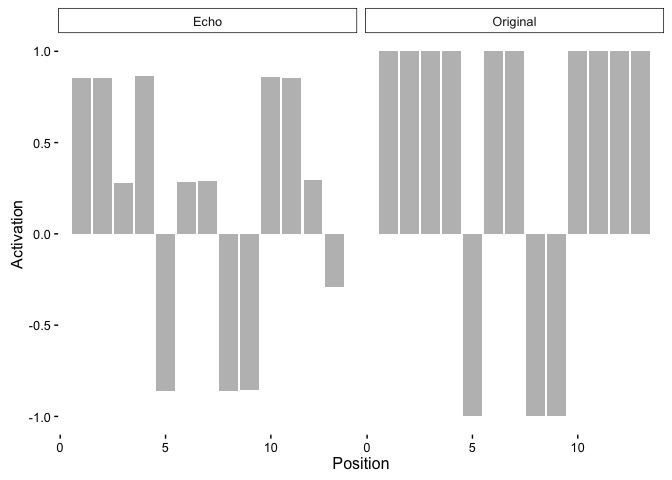
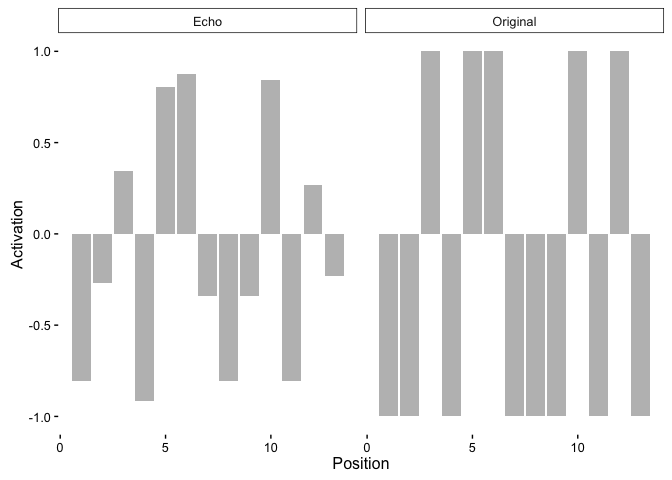
newest updates

diff --git a/Hintzman1986_R_Crump/HintzmanJournal2.html b/Hintzman1986_R_Crump/HintzmanJournal2.html
@@ -122,13 +122,22 @@ $(document).ready(function () {
 
 </div>
 
+<div id="TOC">
+<ul>
+<li><a href="#simulation-1">1986 Simulation 1</a><ul>
+<li><a href="#construct-three-category-names-and-prototype-patterns">Construct three category names and prototype patterns</a></li>
+<li><a href="#create-distortions-of-the-prototype-pattern">Create Distortions of the prototype pattern</a></li>
+<li><a href="#function-to-get-an-echo-from-a-memory">Function to get an echo from a memory</a></li>
+<li><a href="#probe-with-category-name">Probe with Category Name</a></li>
+</ul></li>
+<li><a href="#running-multiple-simulated-subjects">Running multiple simulated Subjects</a></li>
+</ul>
+</div>
 
 <div id="simulation-1" class="section level1">
 <h1>1986 Simulation 1</h1>
 <p>Load libraries</p>
-<pre class="r"><code>library(lsa) #has cosine function</code></pre>
 <pre><code>## Loading required package: SnowballC</code></pre>
-<pre class="r"><code>library(ggplot2) # for plotting</code></pre>
 <p>Each memory trace and each probe was a 23 unit vector.</p>
 <p>Units 1-10 represented the category name, and 11-23 represented the stimulus pattern. Each unit had a .5 probability of being assigned a +1 (activated unit) or a -1 (inhibited unit).</p>
 <p>Three category names and prototypes were used in the simulations.</p>
@@ -181,7 +190,7 @@ getEcho &lt;- function(probe, mem) {
 <pre class="r"><code>CurrentProbe &lt;- c(CategoriesPrototypes[1,1:10],rep(0,13)) #try the first category name, followed by zeros
 Echo &lt;- getEcho(CurrentProbe,DistortedExemplars) # create the echo
 cor(Echo[11:23],CategoriesPrototypes[1,11:23]) # correlate echo pattern with prototype pattern</code></pre>
-<pre><code>## [1] 0.8664403</code></pre>
+<pre><code>## [1] 0.9066649</code></pre>
 <pre class="r"><code># plot the Echo and the Original
 
 Activations &lt;- c(CategoriesPrototypes[1,11:23],Echo[11:23])
@@ -193,8 +202,80 @@ ggplot(data=dframe, aes(y=Activations,x=Neuron))+
   geom_bar(stat=&quot;identity&quot;,position=position_dodge(),fill=&quot;gray&quot;)+
   theme_classic(base_size=12) +
   ylab(&quot;Activation&quot;) + xlab(&quot;Position&quot;)+facet_wrap(~Cue)</code></pre>
[2 lines of base64/hex data omitted]
 </div>
+</div>
+<div id="running-multiple-simulated-subjects" class="section level1">
+<h1>Running multiple simulated Subjects</h1>
+<p>Each simulated subject is shown 3 exemplars from each of three categories. Each of the category names is probed, and the retrieved echo pattern is compared to the prototype pattern.</p>
+<pre class="r"><code>#loop for each subject
+SimulatedDataFrame&lt;-data.frame()
+for(subs in 1:20){
+  
+  #create three categories and prototypes
+  #######################
+  CategoriesPrototypes &lt;- matrix(sign(runif(3*23,-1,1)),nrow=3,ncol=23)
+  
+  #Create Distortions
+  ###################
+  DistortedExemplars &lt;- matrix(nrow = 9, ncol = 23) 
+  rowCounter &lt;- 0  # initialize row counter to insert distortions into matrix
+  # repeat for each category (rows)
+  for (m in 1:3) {
+    # create x number of distortions per category
+    for (numberOfDistortions in 1:3) {
+      rowCounter &lt;- rowCounter + 1  # increment on each loop, simple index
+      ones &lt;- rep(1, 23)  # creates a vector of 23 ones
+      ones[sample(seq(11, 23), 2)] &lt;- c(-1)  # randomly sample two units from the prototype pattern and change value to -1
+      DistortedExemplars[rowCounter, ] &lt;- ones * CategoriesPrototypes[m, ]  # multiply prototype by distortion pattern and save in matrix
+    }
+  }
+  
+  #test each category label
+  #########################
+  SaveCorrelation&lt;-c()
+  for (catLabel in 1:3){
+    CurrentProbe &lt;- c(CategoriesPrototypes[catLabel,1:10],rep(0,13)) #try the first category name, followed by zeros
+    Echo &lt;- getEcho(CurrentProbe,DistortedExemplars) # create the echo
+    SaveCorrelation &lt;- c(SaveCorrelation,cor(Echo[11:23],CategoriesPrototypes[catLabel,11:23])) # correlate echo pattern with prototype pattern
+  }
+  
+  #Store the Data
+  ################
+  StoreData &lt;- data.frame(subject=rep(subs,3),category=seq(1,3),Correlation=SaveCorrelation)
+  SimulatedDataFrame &lt;- rbind(SimulatedDataFrame,StoreData)
+}
+
+# show the data in a table
+#########################
+PlotDF &lt;- ddply(SimulatedDataFrame,.(category),summarise,Cor=mean(Correlation),SE=stde(Correlation))
+kable(xtable(PlotDF),format=&quot;markdown&quot;)</code></pre>
+<table>
+<thead>
+<tr class="header">
+<th align="right">category</th>
+<th align="right">Cor</th>
+<th align="right">SE</th>
+</tr>
+</thead>
+<tbody>
+<tr class="odd">
+<td align="right">1</td>
+<td align="right">0.8441191</td>
+<td align="right">0.0123192</td>
+</tr>
+<tr class="even">
+<td align="right">2</td>
+<td align="right">0.8442505</td>
+<td align="right">0.0156078</td>
+</tr>
+<tr class="odd">
+<td align="right">3</td>
+<td align="right">0.8310746</td>
+<td align="right">0.0147765</td>
+</tr>
+</tbody>
+</table>
 </div>
 
 

diff --git a/Hintzman1986_R_Crump/HintzmanJournal2.md b/Hintzman1986_R_Crump/HintzmanJournal2.md
@@ -7,16 +7,8 @@ August 30, 2016
 Load libraries
 
 
-```r
-library(lsa) #has cosine function
-```
-
 ```
 ## Loading required package: SnowballC
-```
-
-```r
-library(ggplot2) # for plotting
 ```
 
 Each memory trace and each probe was a 23 unit vector. 
@@ -91,7 +83,7 @@ cor(Echo[11:23],CategoriesPrototypes[1,11:23]) # correlate echo pattern with pro
 ```
 
 ```
-## [1] 0.8664403
+## [1] 0.9066649
 ```
 
 ```r
@@ -109,4 +101,62 @@ ggplot(data=dframe, aes(y=Activations,x=Neuron))+
 ```
 
 ![](HintzmanJournal2_files/figure-html/unnamed-chunk-5-1.png)<!-- -->
+
+# Running multiple simulated Subjects
+
+Each simulated subject is shown 3 exemplars from each of three categories. Each of the category names is probed, and the retrieved echo pattern is compared to the prototype pattern. 
+
+
+```r
+#loop for each subject
+SimulatedDataFrame<-data.frame()
+for(subs in 1:20){
+  
+  #create three categories and prototypes
+  #######################
+  CategoriesPrototypes <- matrix(sign(runif(3*23,-1,1)),nrow=3,ncol=23)
+  
+  #Create Distortions
+  ###################
+  DistortedExemplars <- matrix(nrow = 9, ncol = 23) 
+  rowCounter <- 0  # initialize row counter to insert distortions into matrix
+  # repeat for each category (rows)
+  for (m in 1:3) {
+    # create x number of distortions per category
+    for (numberOfDistortions in 1:3) {
+      rowCounter <- rowCounter + 1  # increment on each loop, simple index
+      ones <- rep(1, 23)  # creates a vector of 23 ones
+      ones[sample(seq(11, 23), 2)] <- c(-1)  # randomly sample two units from the prototype pattern and change value to -1
+      DistortedExemplars[rowCounter, ] <- ones * CategoriesPrototypes[m, ]  # multiply prototype by distortion pattern and save in matrix
+    }
+  }
+  
+  #test each category label
+  #########################
+  SaveCorrelation<-c()
+  for (catLabel in 1:3){
+    CurrentProbe <- c(CategoriesPrototypes[catLabel,1:10],rep(0,13)) #try the first category name, followed by zeros
+    Echo <- getEcho(CurrentProbe,DistortedExemplars) # create the echo
+    SaveCorrelation <- c(SaveCorrelation,cor(Echo[11:23],CategoriesPrototypes[catLabel,11:23])) # correlate echo pattern with prototype pattern
+  }
+  
+  #Store the Data
+  ################
+  StoreData <- data.frame(subject=rep(subs,3),category=seq(1,3),Correlation=SaveCorrelation)
+  SimulatedDataFrame <- rbind(SimulatedDataFrame,StoreData)
+}
+
+# show the data in a table
+#########################
+PlotDF <- ddply(SimulatedDataFrame,.(category),summarise,Cor=mean(Correlation),SE=stde(Correlation))
+kable(xtable(PlotDF),format="markdown")
+```
+
+
+
+| category|       Cor|        SE|
+|--------:|---------:|---------:|
+|        1| 0.8441191| 0.0123192|
+|        2| 0.8442505| 0.0156078|
+|        3| 0.8310746| 0.0147765|
 
